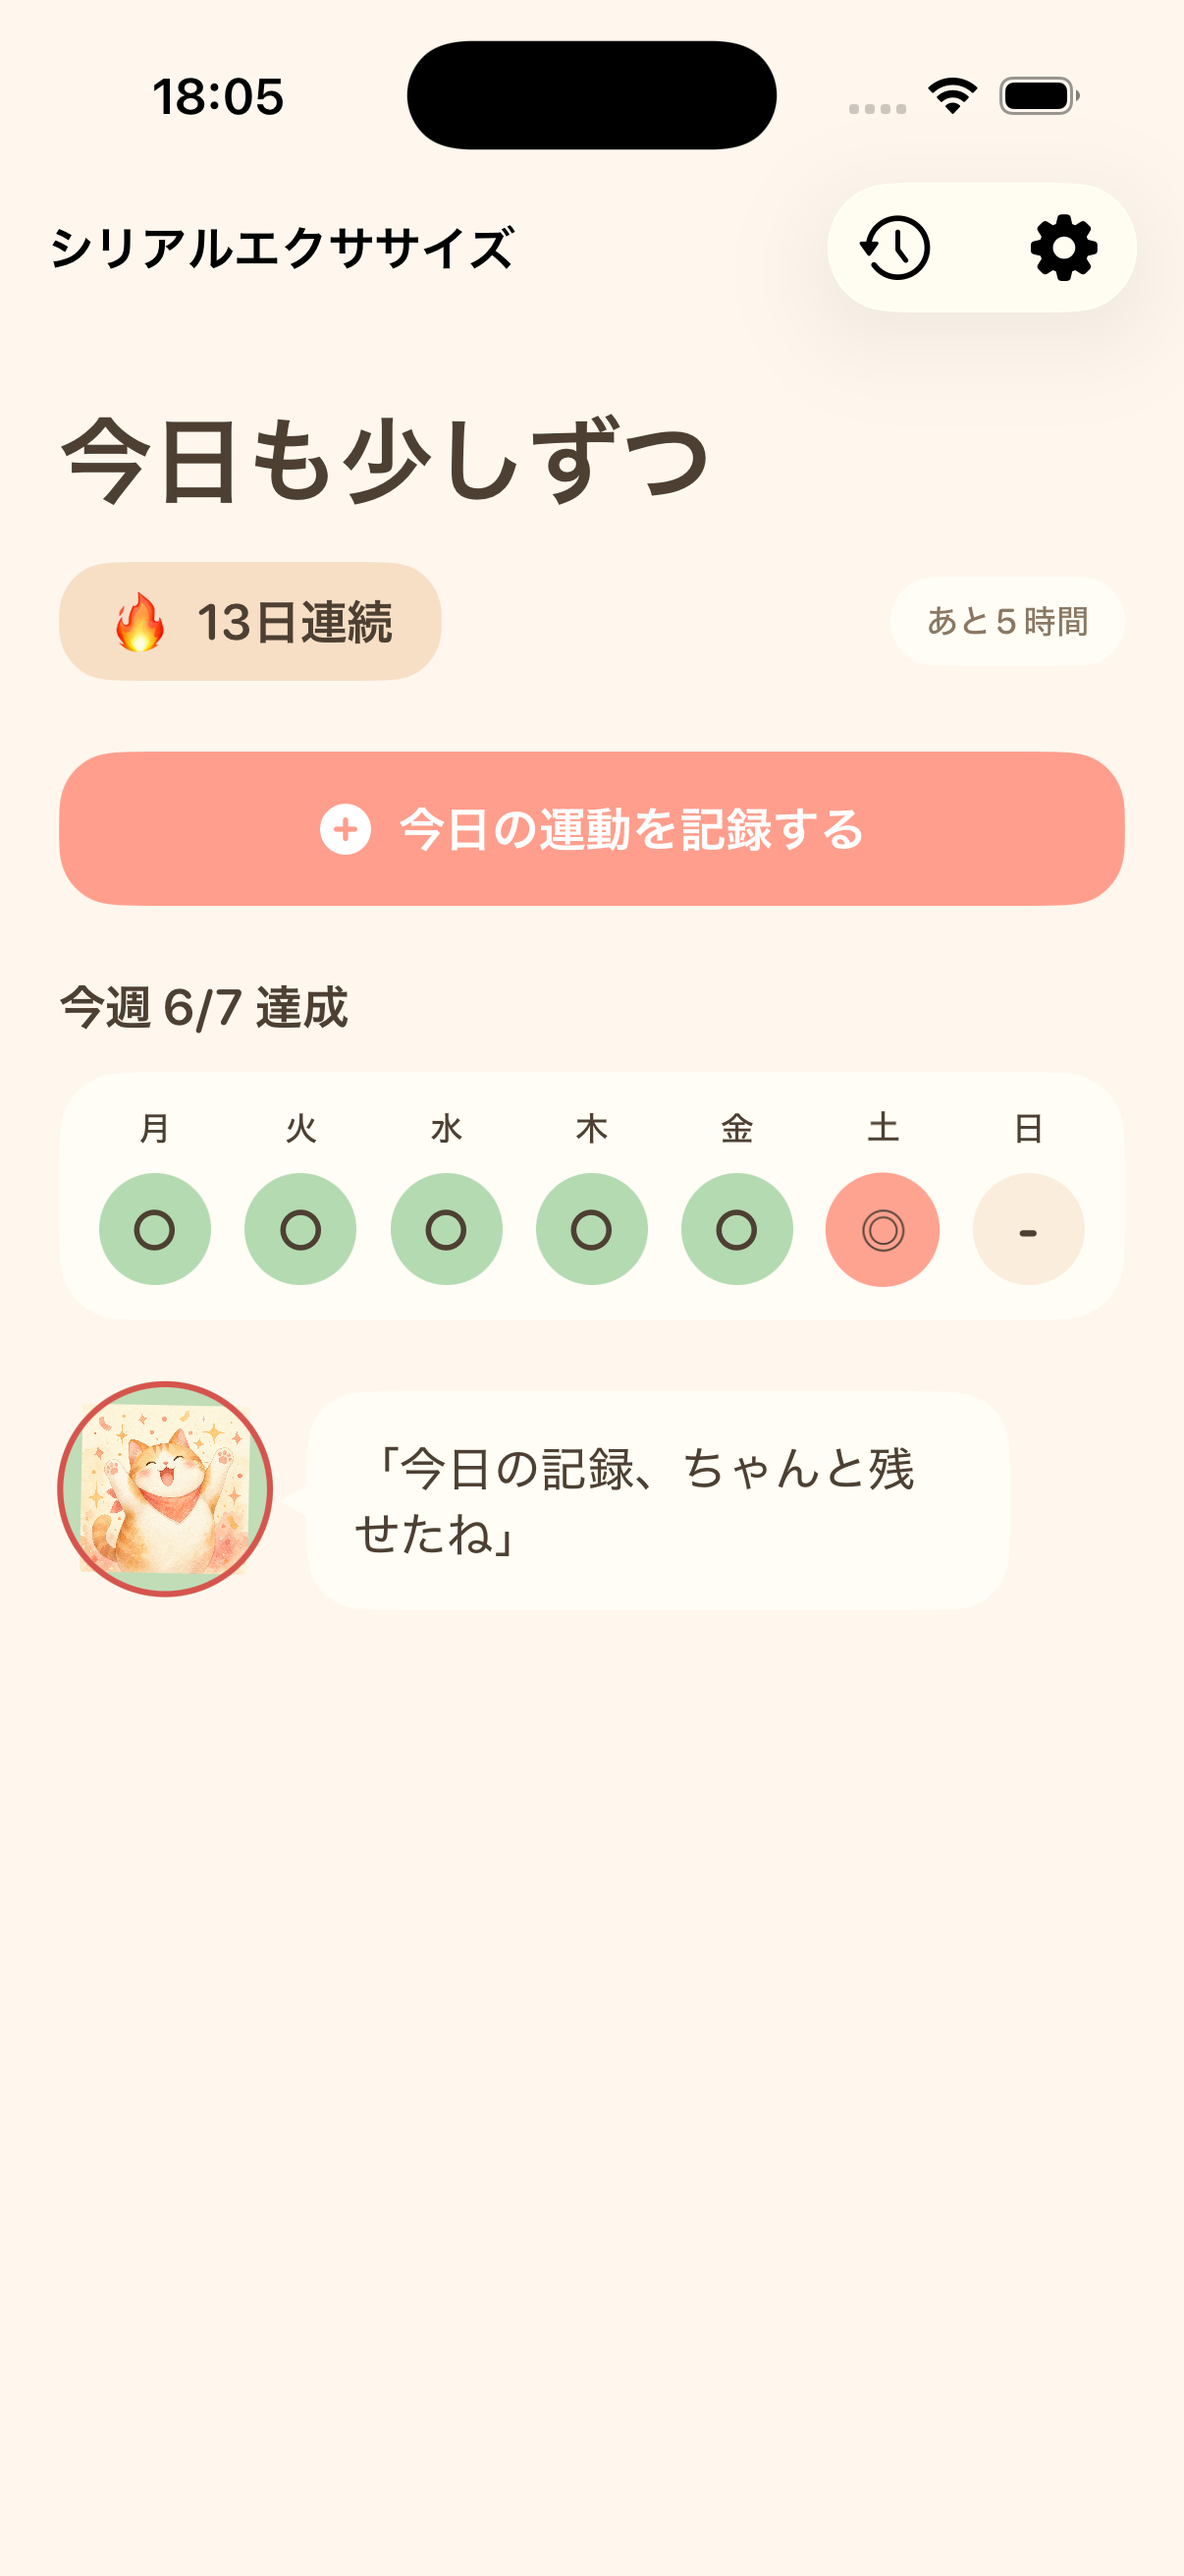
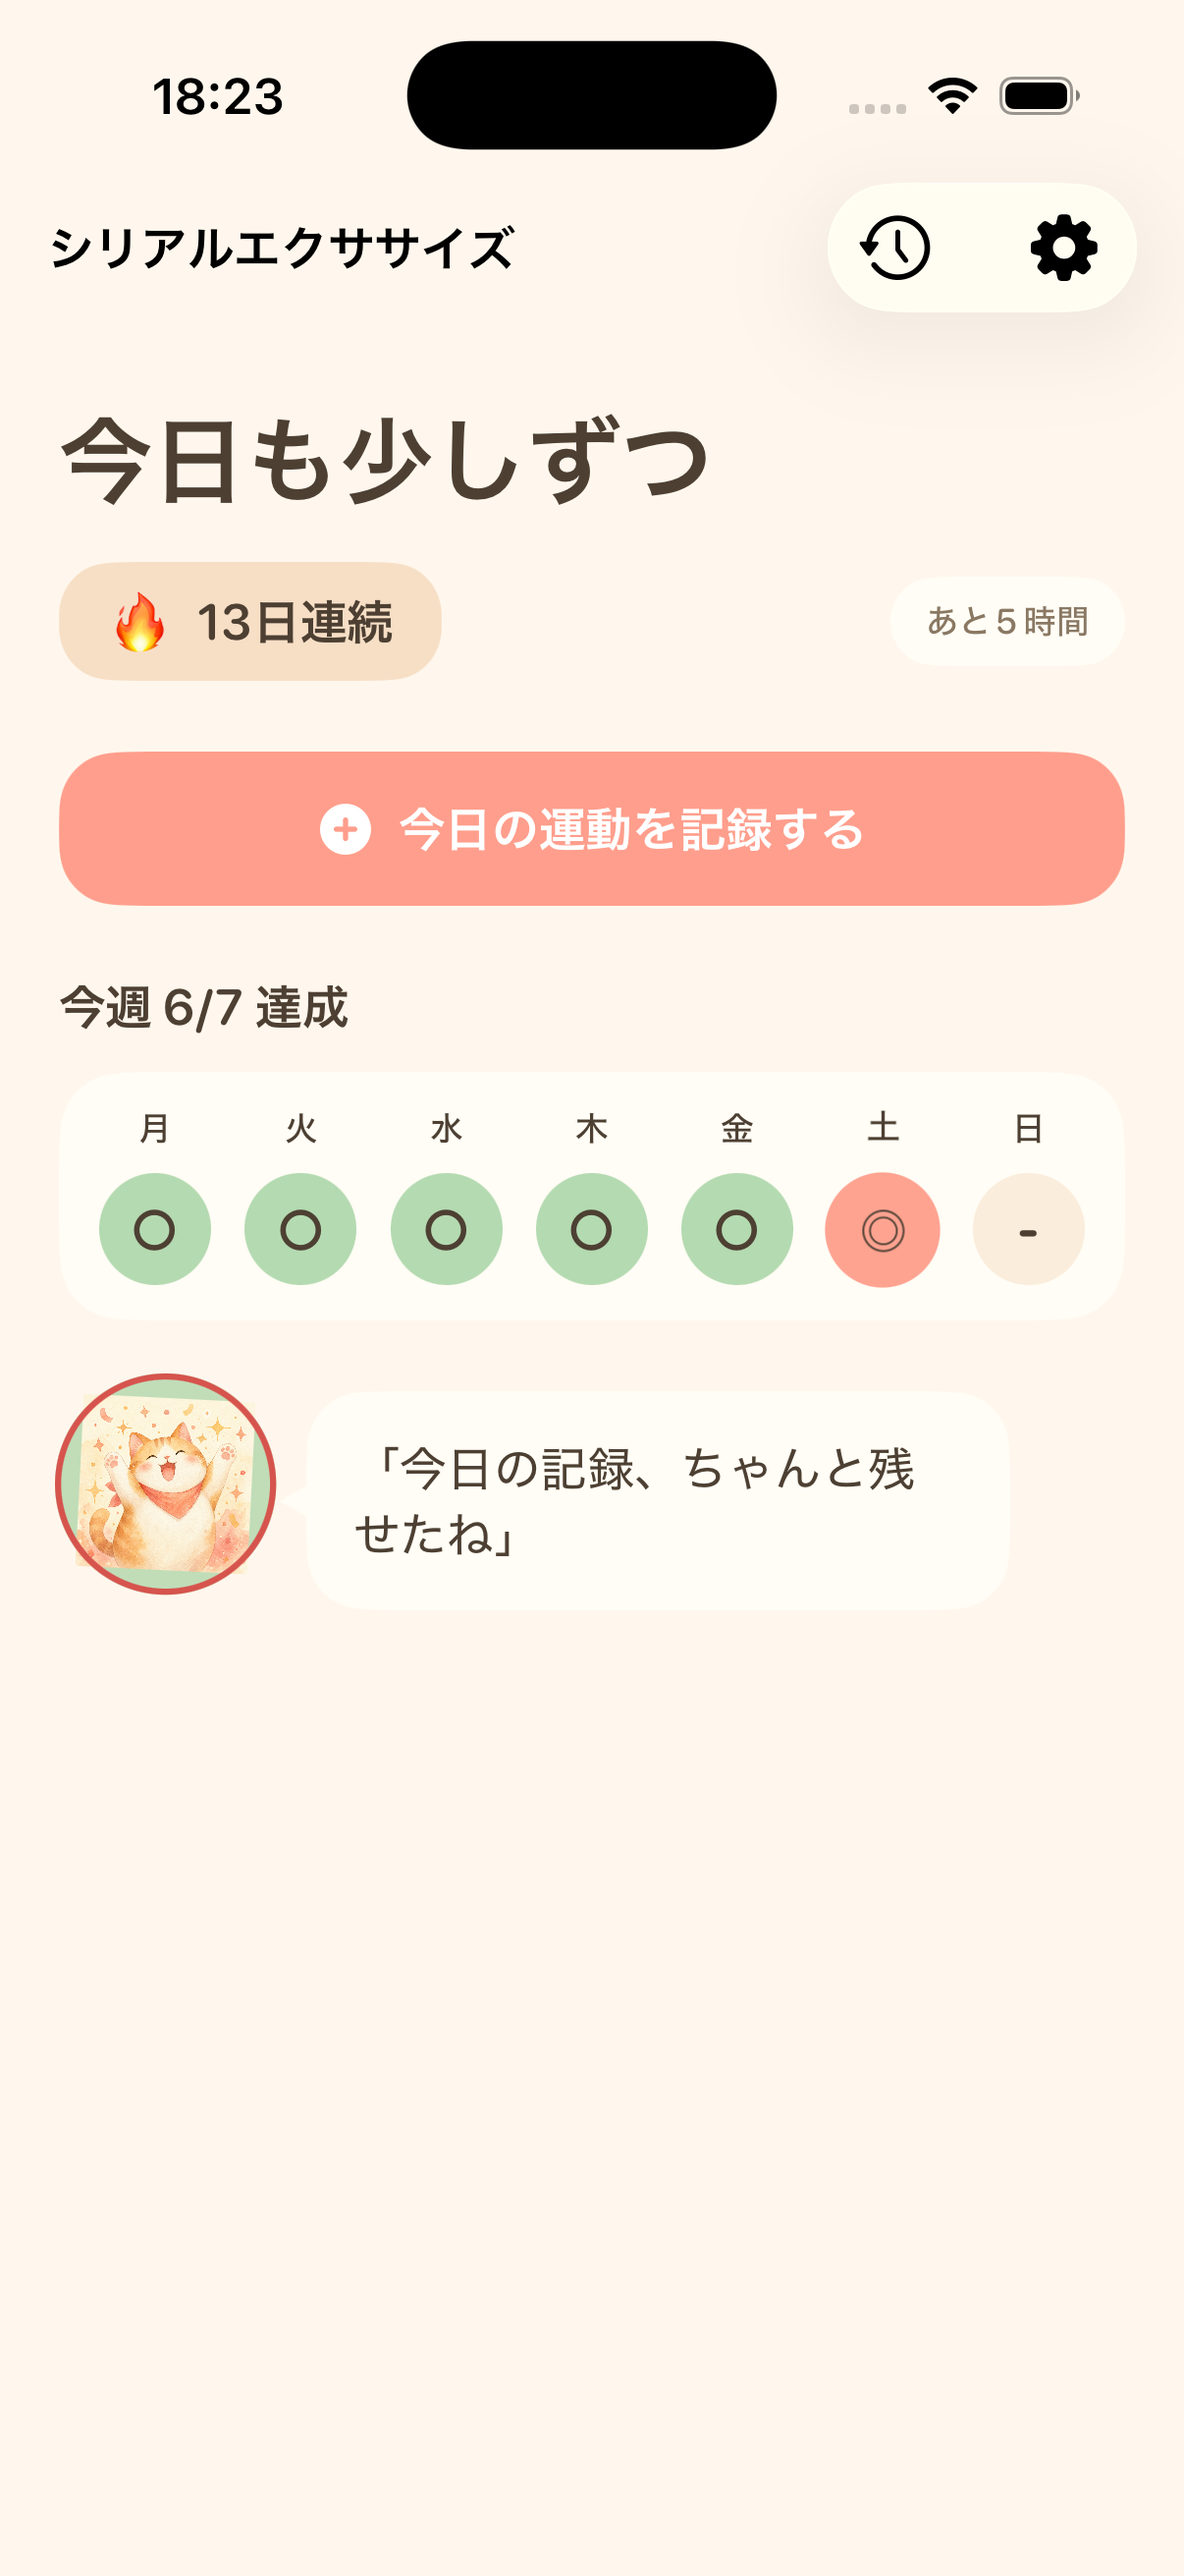
Initial-route launch arg, iPad support, GitHub Pages, full screenshots
- CerealExerciseApp.swift: add `--initial-route` launch argument
  (home/record/history/settings/notification-settings) so each screen can
  be opened directly for screenshot automation
- project.yml: TARGETED_DEVICE_FAMILY=1,2 (Universal — iPhone + iPad)
- docs/: Jekyll site for GitHub Pages
  - _config.yml (cayman theme)
  - index.md (landing)
  - privacy.md, terms.md, support.md (English/Japanese)
- submission/screenshots/:
  - iphone-6.7/ x 5 (home/record/history/settings/notification-settings)
  - iphone-6.9/ x 5 (App Store 6.9" 1320x2868)
  - ipad-13/ x 5 (iPad Pro 13" M5)

Public visibility enabled, Pages deployed from main:/docs.

Changed region(s): [[0.0307, 0.5252, 0.2454, 0.6178], [0.1841, 0.0309, 0.2454, 0.0618]]

diff --git a/app/CerealExercise/CerealExercise/App/CerealExerciseApp.swift b/app/CerealExercise/CerealExercise/App/CerealExerciseApp.swift
@@ -13,6 +13,14 @@ struct CerealExerciseApp: App {
     }
 }
 
+private enum InitialRoute: String {
+    case home
+    case record
+    case history
+    case settings
+    case notificationSettings = "notification-settings"
+}
+
 private struct HomeRootView: View {
     @Environment(\.modelContext) private var modelContext
     @State private var store: WorkoutStore?
@@ -21,12 +29,17 @@ private struct HomeRootView: View {
     private var launchArgs: [String] { ProcessInfo.processInfo.arguments }
     private var skipNotificationPrompt: Bool { launchArgs.contains("--no-notification-prompt") }
     private var shouldSeedDemoData: Bool { launchArgs.contains("--seed-demo-data") }
+    private var initialRoute: InitialRoute {
+        guard let idx = launchArgs.firstIndex(of: "--initial-route"), idx + 1 < launchArgs.count else {
+            return .home
+        }
+        return InitialRoute(rawValue: launchArgs[idx + 1]) ?? .home
+    }
 
     var body: some View {
         Group {
             if let store {
-                HomeView()
-                    .environment(store)
+                routedView(store: store)
             } else {
                 ProgressView()
                     .tint(Palette.primary)
@@ -48,6 +61,33 @@ private struct HomeRootView: View {
         .onChange(of: scenePhase) { _, newPhase in
             guard newPhase == .active, let store else { return }
             publishAndSchedule(using: store)
+        }
+    }
+
+    @ViewBuilder
+    private func routedView(store: WorkoutStore) -> some View {
+        switch initialRoute {
+        case .home:
+            HomeView()
+                .environment(store)
+        case .record:
+            NavigationStack {
+                RecordEntryView { _ in }
+                    .environment(store)
+            }
+        case .history:
+            NavigationStack {
+                HistoryView()
+                    .environment(store)
+            }
+        case .settings:
+            NavigationStack {
+                SettingsView()
+            }
+        case .notificationSettings:
+            NavigationStack {
+                NotificationSettingsView()
+            }
         }
     }
 

diff --git a/docs/privacy.md b/docs/privacy.md
@@ -1,0 +1,69 @@
+---
+layout: default
+title: プライバシーポリシー
+---
+
+
+# プライバシーポリシー — シリアルエクササイズ
+
+**最終更新日: 2026-05-23**
+
+シリアルエクササイズ（以下「本アプリ」）は、ユーザーのプライバシーを最大限尊重します。本ポリシーは、本アプリにおける個人情報の取り扱いについて定めるものです。
+
+## 1. 収集する情報
+
+本アプリは、以下の情報を **端末内のみ** に保存し、サーバーや第三者へ送信しません。
+
+- 運動記録（カテゴリ、種目名、時間、回数、セット数、メモ、実施日時）
+- 連続記録 / 週間達成率の集計データ
+- 通知設定（ON/OFF、通知時刻）
+- アプリ内設定（テーマ等）
+
+これらは Apple 標準の SwiftData により、ユーザーの端末（iPhone / iPad）に保存されます。
+
+## 2. 収集しない情報
+
+- 氏名、メールアドレス、電話番号などの個人を特定する情報
+- 位置情報
+- 端末識別子 (IDFA / IDFV)
+- 連絡先・写真・カレンダー等の端末データ
+- 利用状況・行動ログ
+- クラッシュレポート（第三者解析 SDK は使用していません）
+
+## 3. 第三者への提供
+
+本アプリは、ユーザーの情報を一切第三者に提供しません。広告ネットワーク、解析サービス、SNS、その他いかなる外部サービスとも連携していません。
+
+## 4. データの保持期間
+
+ユーザーが端末内で保持している限り、本アプリのデータは端末内に存在します。本アプリのアンインストールにより、すべてのデータは端末から削除されます。
+
+## 5. 子どもの利用
+
+本アプリは年齢区分「4+」として提供されますが、保護者の方は、お子様の利用について適切に判断し、必要に応じて見守りをお願いします。
+
+## 6. 通知
+
+本アプリは、ユーザーが許可した場合に限り、ローカル通知（端末内で完結する通知）を送信します。リモート通知（プッシュ通知）は使用していません。
+
+## 7. 将来のアップデート
+
+将来のアップデートで以下の機能を追加する場合、別途許可をいただいたうえで連携を行います。
+
+- Apple ログイン (Sign in with Apple)
+- iCloud 同期
+- Apple Watch 連携
+- Apple ヘルスケア連携
+
+これらが有効化された際は本ポリシーを更新し、アプリ内および本ドキュメントで告知します。
+
+## 8. ポリシーの変更
+
+本ポリシーが変更された場合、本ドキュメントを更新し、最終更新日を改めます。重要な変更がある場合はアプリ内で通知します。
+
+## 9. お問い合わせ
+
+本ポリシーに関するご質問・ご意見は、以下までご連絡ください。
+
+- メール: 218350578+torontojapan@users.noreply.github.com
+- リポジトリ: https://github.com/torontojapan/everyday_training/issues

diff --git a/docs/terms.md b/docs/terms.md
@@ -1,0 +1,62 @@
+---
+layout: default
+title: 利用規約
+---
+
+
+# 利用規約 — シリアルエクササイズ
+
+**最終更新日: 2026-05-23**
+
+本利用規約（以下「本規約」）は、シリアルエクササイズ（以下「本アプリ」）の利用条件を定めるものです。
+
+## 1. 適用
+
+本規約は、本アプリの提供者（以下「当方」）と本アプリを利用する個人（以下「ユーザー」）との間で適用されます。
+
+## 2. 利用条件
+
+- 本アプリは無料で提供されます。
+- 本アプリを利用するには、本規約に同意いただいたものとみなされます。
+- ユーザーは、自身の責任において本アプリを利用するものとします。
+
+## 3. 健康に関する免責
+
+- 本アプリは、運動記録を補助するツールであり、医療・診断・治療を提供するものではありません。
+- 運動を開始するにあたっては、ご自身の健康状態に応じて適切に判断し、必要に応じて医師にご相談ください。
+- 本アプリの利用により生じた身体的な不調・怪我等について、当方は一切の責任を負いません。
+
+## 4. 知的財産権
+
+- 本アプリのソースコードはオープンソースとして公開されている場合があります（リポジトリ参照）。
+- アプリ内のキャラクターデザイン・テキスト・UI デザインに関する権利は当方に帰属します。
+
+## 5. 禁止事項
+
+ユーザーは、以下の行為をしてはなりません。
+
+- 法令または公序良俗に違反する行為
+- 本アプリの不正なリバースエンジニアリング、解析、模倣（オープンソース範囲を除く）
+- 当方または第三者の権利を侵害する行為
+
+## 6. サービスの変更・停止
+
+当方は、ユーザーへの事前通知なく本アプリの内容を変更・更新・停止することがあります。
+
+## 7. 免責事項
+
+- 本アプリは「現状有姿」で提供され、特定の目的への適合性・正確性を保証しません。
+- 本アプリの利用または利用不能から生じた損害について、当方は一切責任を負いません。
+- ユーザーの端末データの消失・破損についても、当方は責任を負いません。重要なデータは適宜バックアップしてください。
+
+## 8. 規約の変更
+
+当方は、必要に応じて本規約を変更することがあります。変更後の規約はアプリ内またはリポジトリで告知します。
+
+## 9. 準拠法・管轄
+
+本規約は日本法に準拠し、本規約に関する紛争は東京地方裁判所を第一審の専属的合意管轄とします。
+
+## 10. お問い合わせ
+
+- メール: 218350578+torontojapan@users.noreply.github.com

diff --git a/docs/support.md b/docs/support.md
@@ -1,0 +1,54 @@
+---
+layout: default
+title: サポート — シリアルエクササイズ
+---
+
+# サポート
+
+シリアルエクササイズに関するご質問・不具合報告・ご要望は、以下までお寄せください。
+
+## お問い合わせ
+
+- **メール**: 218350578+torontojapan@users.noreply.github.com
+- **GitHub Issues**: [github.com/torontojapan/everyday_training/issues](https://github.com/torontojapan/everyday_training/issues)
+
+不具合報告の場合は、以下の情報を添えていただけると助かります:
+
+- 端末モデル (例: iPhone 15 Pro)
+- iOS バージョン (例: iOS 26.5)
+- アプリのバージョン
+- 再現手順
+- スクリーンショット (可能であれば)
+
+## よくある質問
+
+### Q. 通知が来ません
+
+「設定」→「通知設定」で通知が ON になっているか確認してください。
+iOS の「設定」→「通知」→「シリアルエクササイズ」で許可状態もご確認ください。
+
+### Q. データは安全ですか
+
+すべての記録は端末内のみに保存され、外部サーバーには一切送信されません。
+詳しくは[プライバシーポリシー](privacy)をご覧ください。
+
+### Q. データを別の端末に移すには
+
+現在は端末内のみの保存です。iCloud 同期は将来のアップデートで提供予定です。
+
+### Q. 連続記録が途切れました
+
+週に3回以上未記録日が発生した場合、3回目以降は「未達成」となり連続記録が途切れます。
+週2回までの未記録日は自動的に「回復日」として連続記録を維持します。
+
+### Q. アプリを削除したらデータは消えますか
+
+はい、すべての記録は端末上のアプリデータと一緒に削除されます。バックアップ機能は将来のアップデートで提供予定です。
+
+## アプリ情報
+
+- 開発者: torontojapan
+- カテゴリ: ヘルスケア / フィットネス
+- 価格: 無料
+- App内課金: なし
+- 対応 iOS: 17.0 以降

diff --git a/docs/index.md b/docs/index.md
@@ -1,0 +1,35 @@
+---
+layout: default
+title: シリアルエクササイズ
+---
+
+# 🐱 シリアルエクササイズ
+
+猫キャラクターと一緒に、毎日1分から運動を習慣化する iOS アプリ。
+
+> 🐱「今日も1分だけやってみよ？」
+
+## 特長
+
+- 🔥 **1分でOK** — 1種目以上、または1分以上の運動で「今日も達成」
+- 📅 **連続記録 + 週間達成率** — 続けるのが楽しくなる可視化
+- 😴 **自動で休養日** — 週2回までの未記録日は「回復日」扱い、連続記録は維持
+- 🐱 **7状態の猫キャラ** — 朝はにこにこ、夜はそわそわ、達成したら大喜び
+- 📲 **ウィジェット** — ホーム画面に残り時間 / 達成率 / 猫メッセージ
+- 🔔 **やさしい通知** — 1日2回、時刻はいつでも変更可
+
+## ドキュメント
+
+- [プライバシーポリシー](privacy)
+- [利用規約](terms)
+- [サポート](support)
+
+## プライバシー方針
+
+記録は **端末内のみに保存**。アカウント登録不要、外部サーバーへの送信なし、サードパーティ SDK なし。
+
+## オープンソース
+
+ソースコード: [github.com/torontojapan/everyday_training](https://github.com/torontojapan/everyday_training)
+
+ライセンス・著作権表示は GitHub リポジトリを参照してください。
